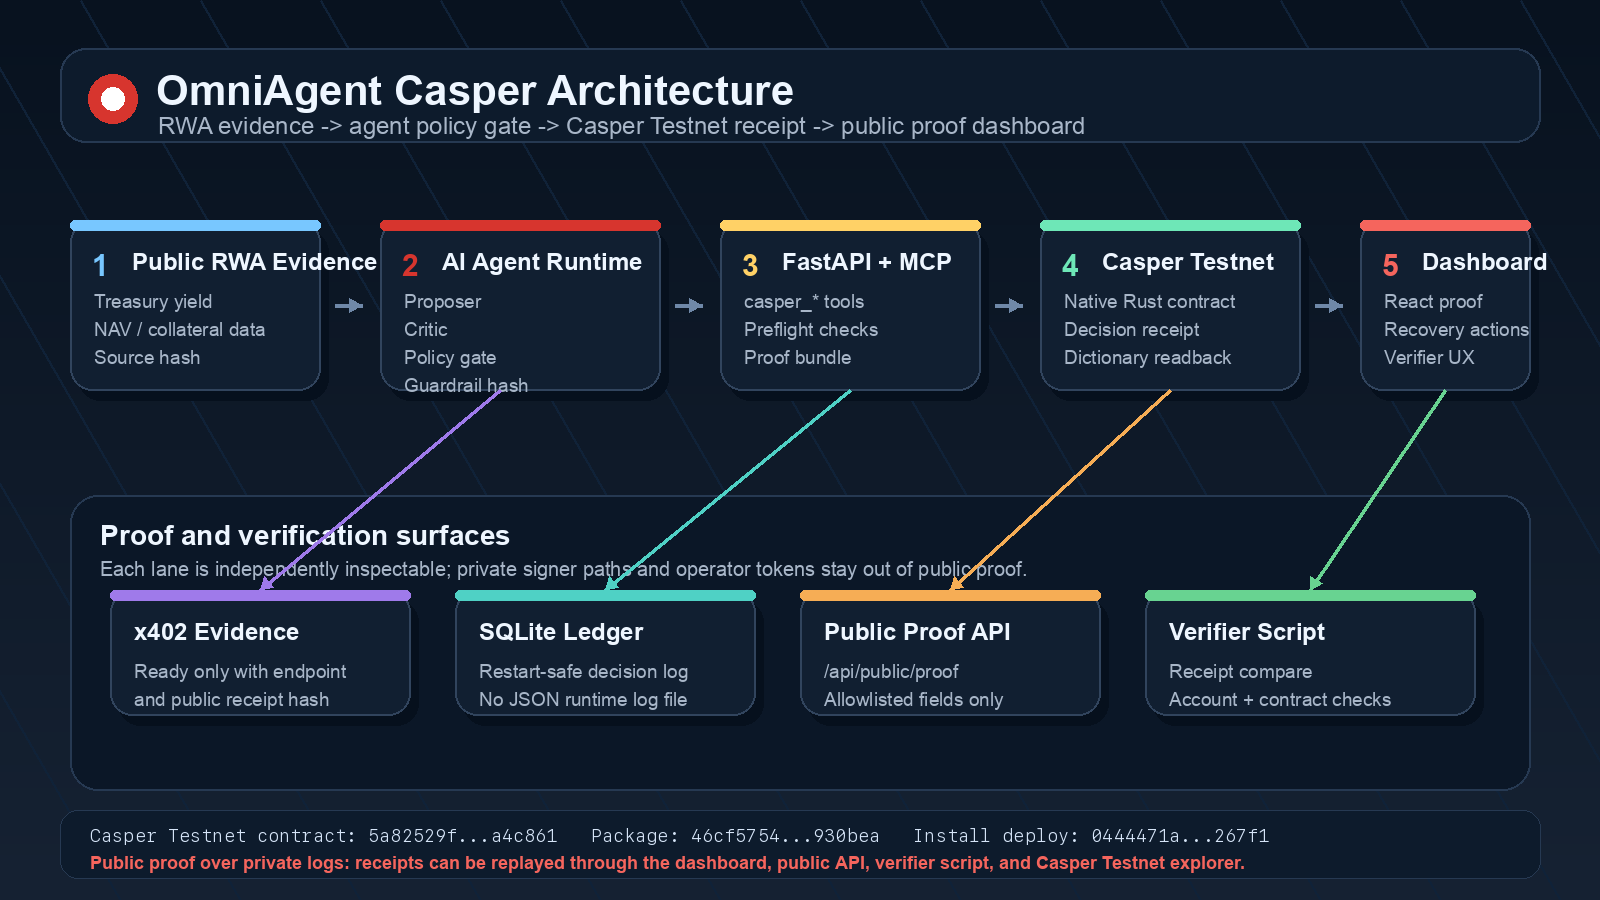
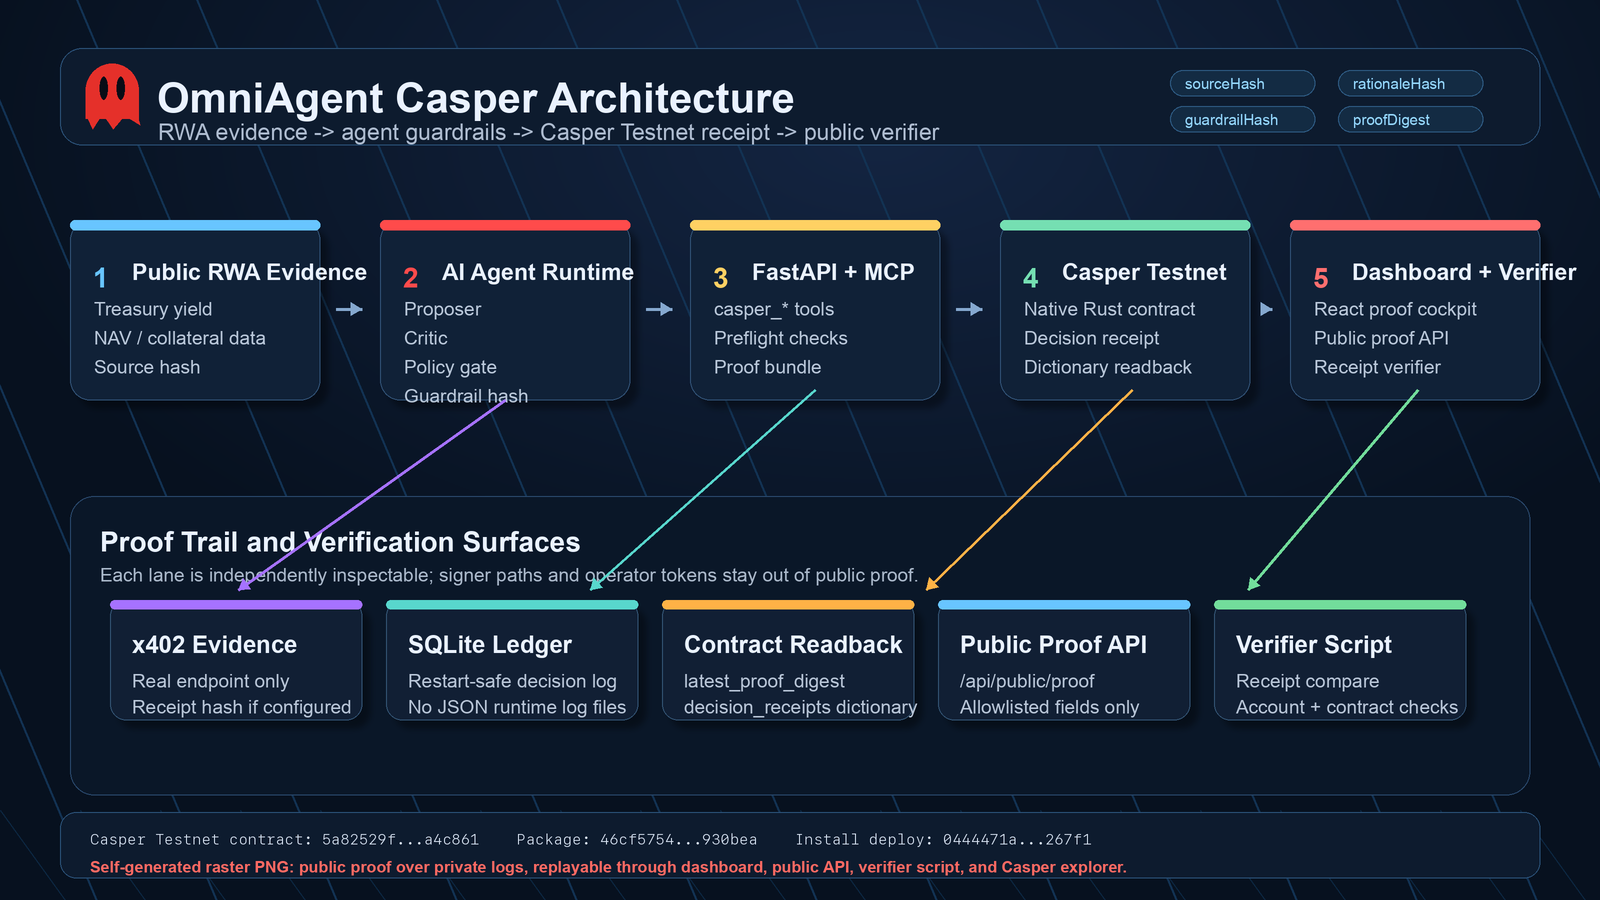
docs: refresh architecture diagram

diff --git a/README.md b/README.md
@@ -31,7 +31,9 @@ the receipt through a dashboard, public proof endpoint, and verifier script.
 It is built as a Casper-only demo for the
 [Casper Agentic Buildathon](https://dorahacks.io/hackathon/casper-agentic-buildathon/detail).
 
-![OmniAgent Casper architecture](frontend/public/imgs/omniagent-casper-architecture.png)
+The architecture diagram below is a self-generated raster PNG, not an SVG.
+
+![Self-generated OmniAgent Casper architecture PNG](frontend/public/imgs/omniagent-casper-architecture.png)
 
 ## High-Level Design
 